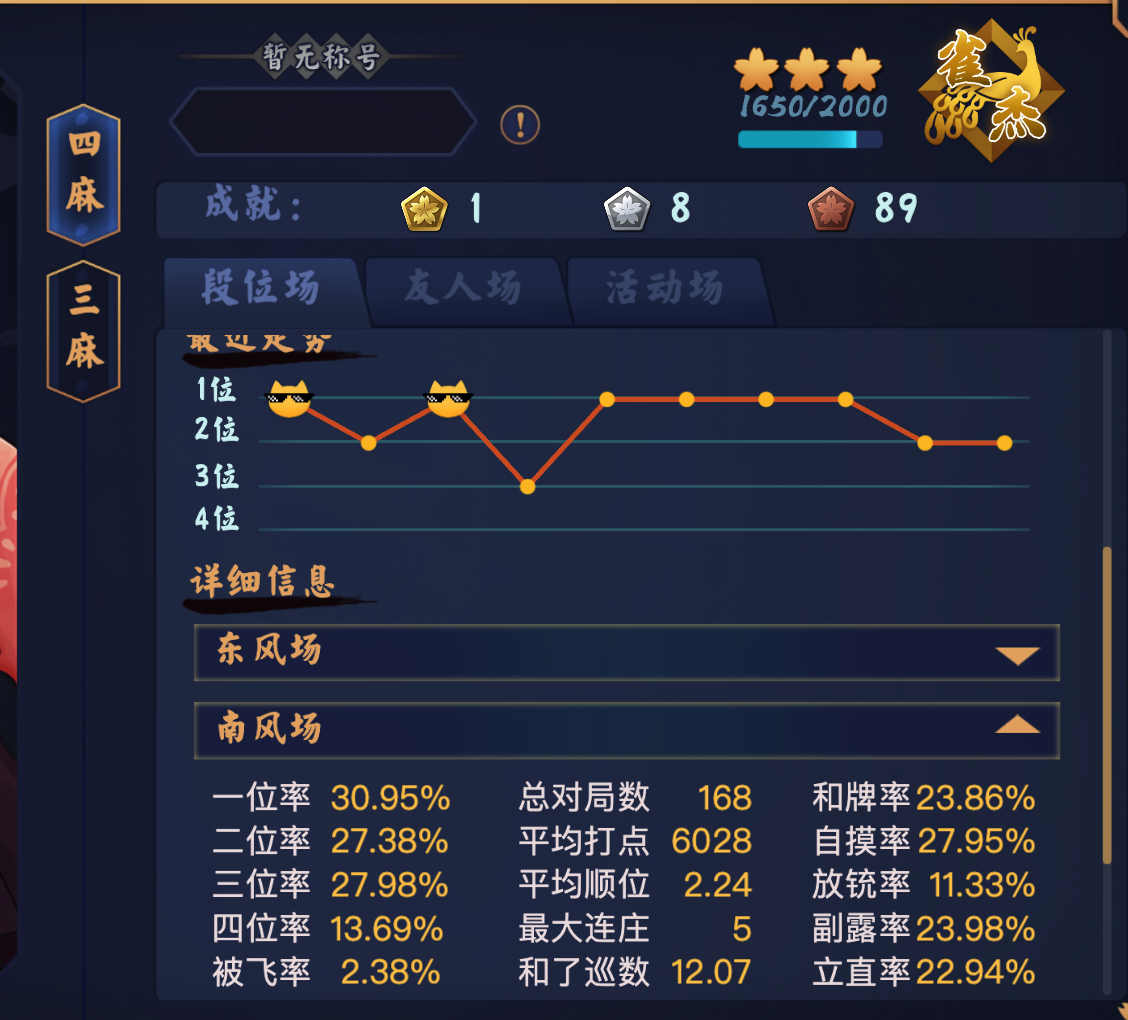
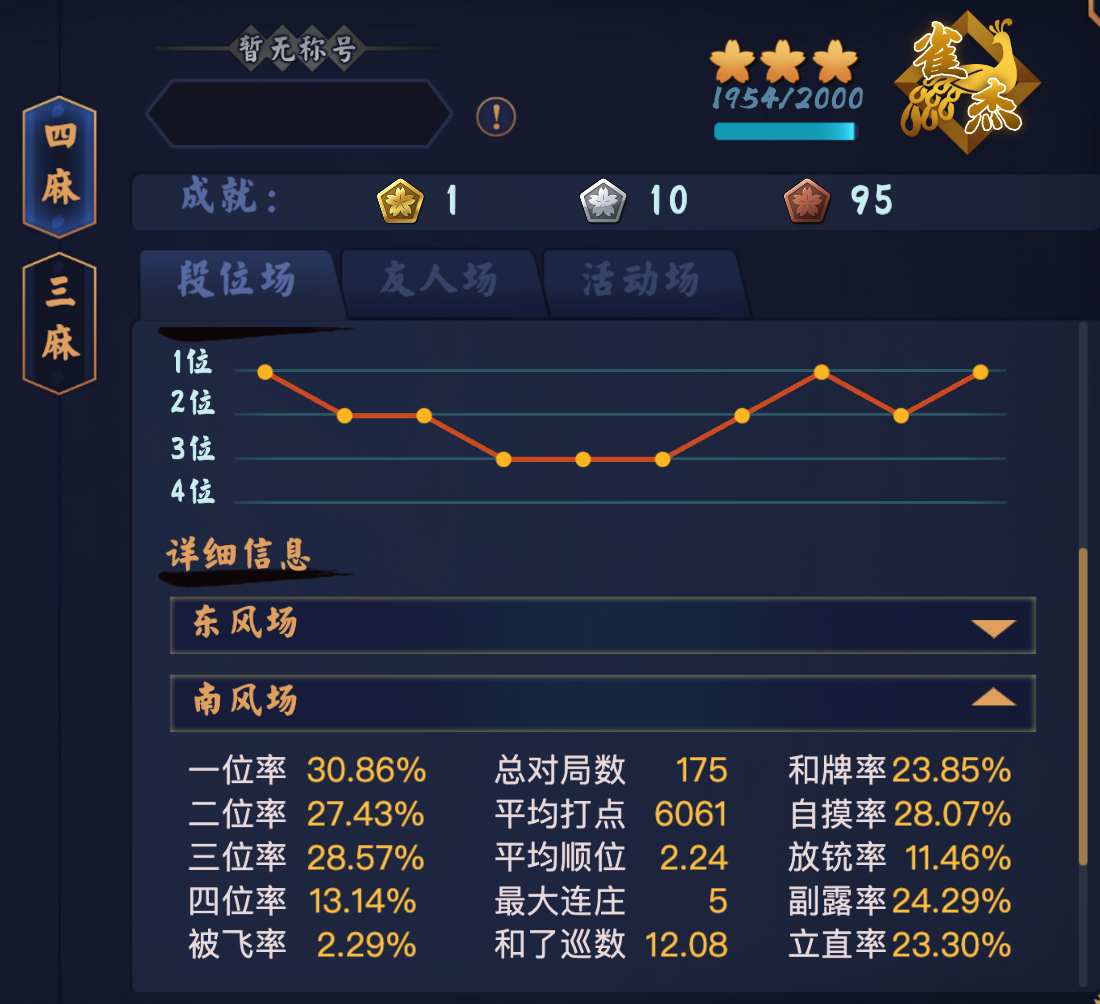
update

diff --git a/README.md b/README.md
@@ -16,6 +16,9 @@ AI 逻辑原作者[MahjongAI](https://github.com/zhangjk95/MahjongAI)；
 [网盘下载](https://www.aliyundrive.com/s/w1toPgKkGjw)
 
 ## 测试结果
+
+(截至 2021 年 09 月 08 日)
+![雀豪](./imgs/majsoul-5.png)
 (截至 2021 年 09 月 08 日)
 ![雀杰三](./imgs/majsoul-4.png)
 (截至 2021 年 09 月 07 日)
